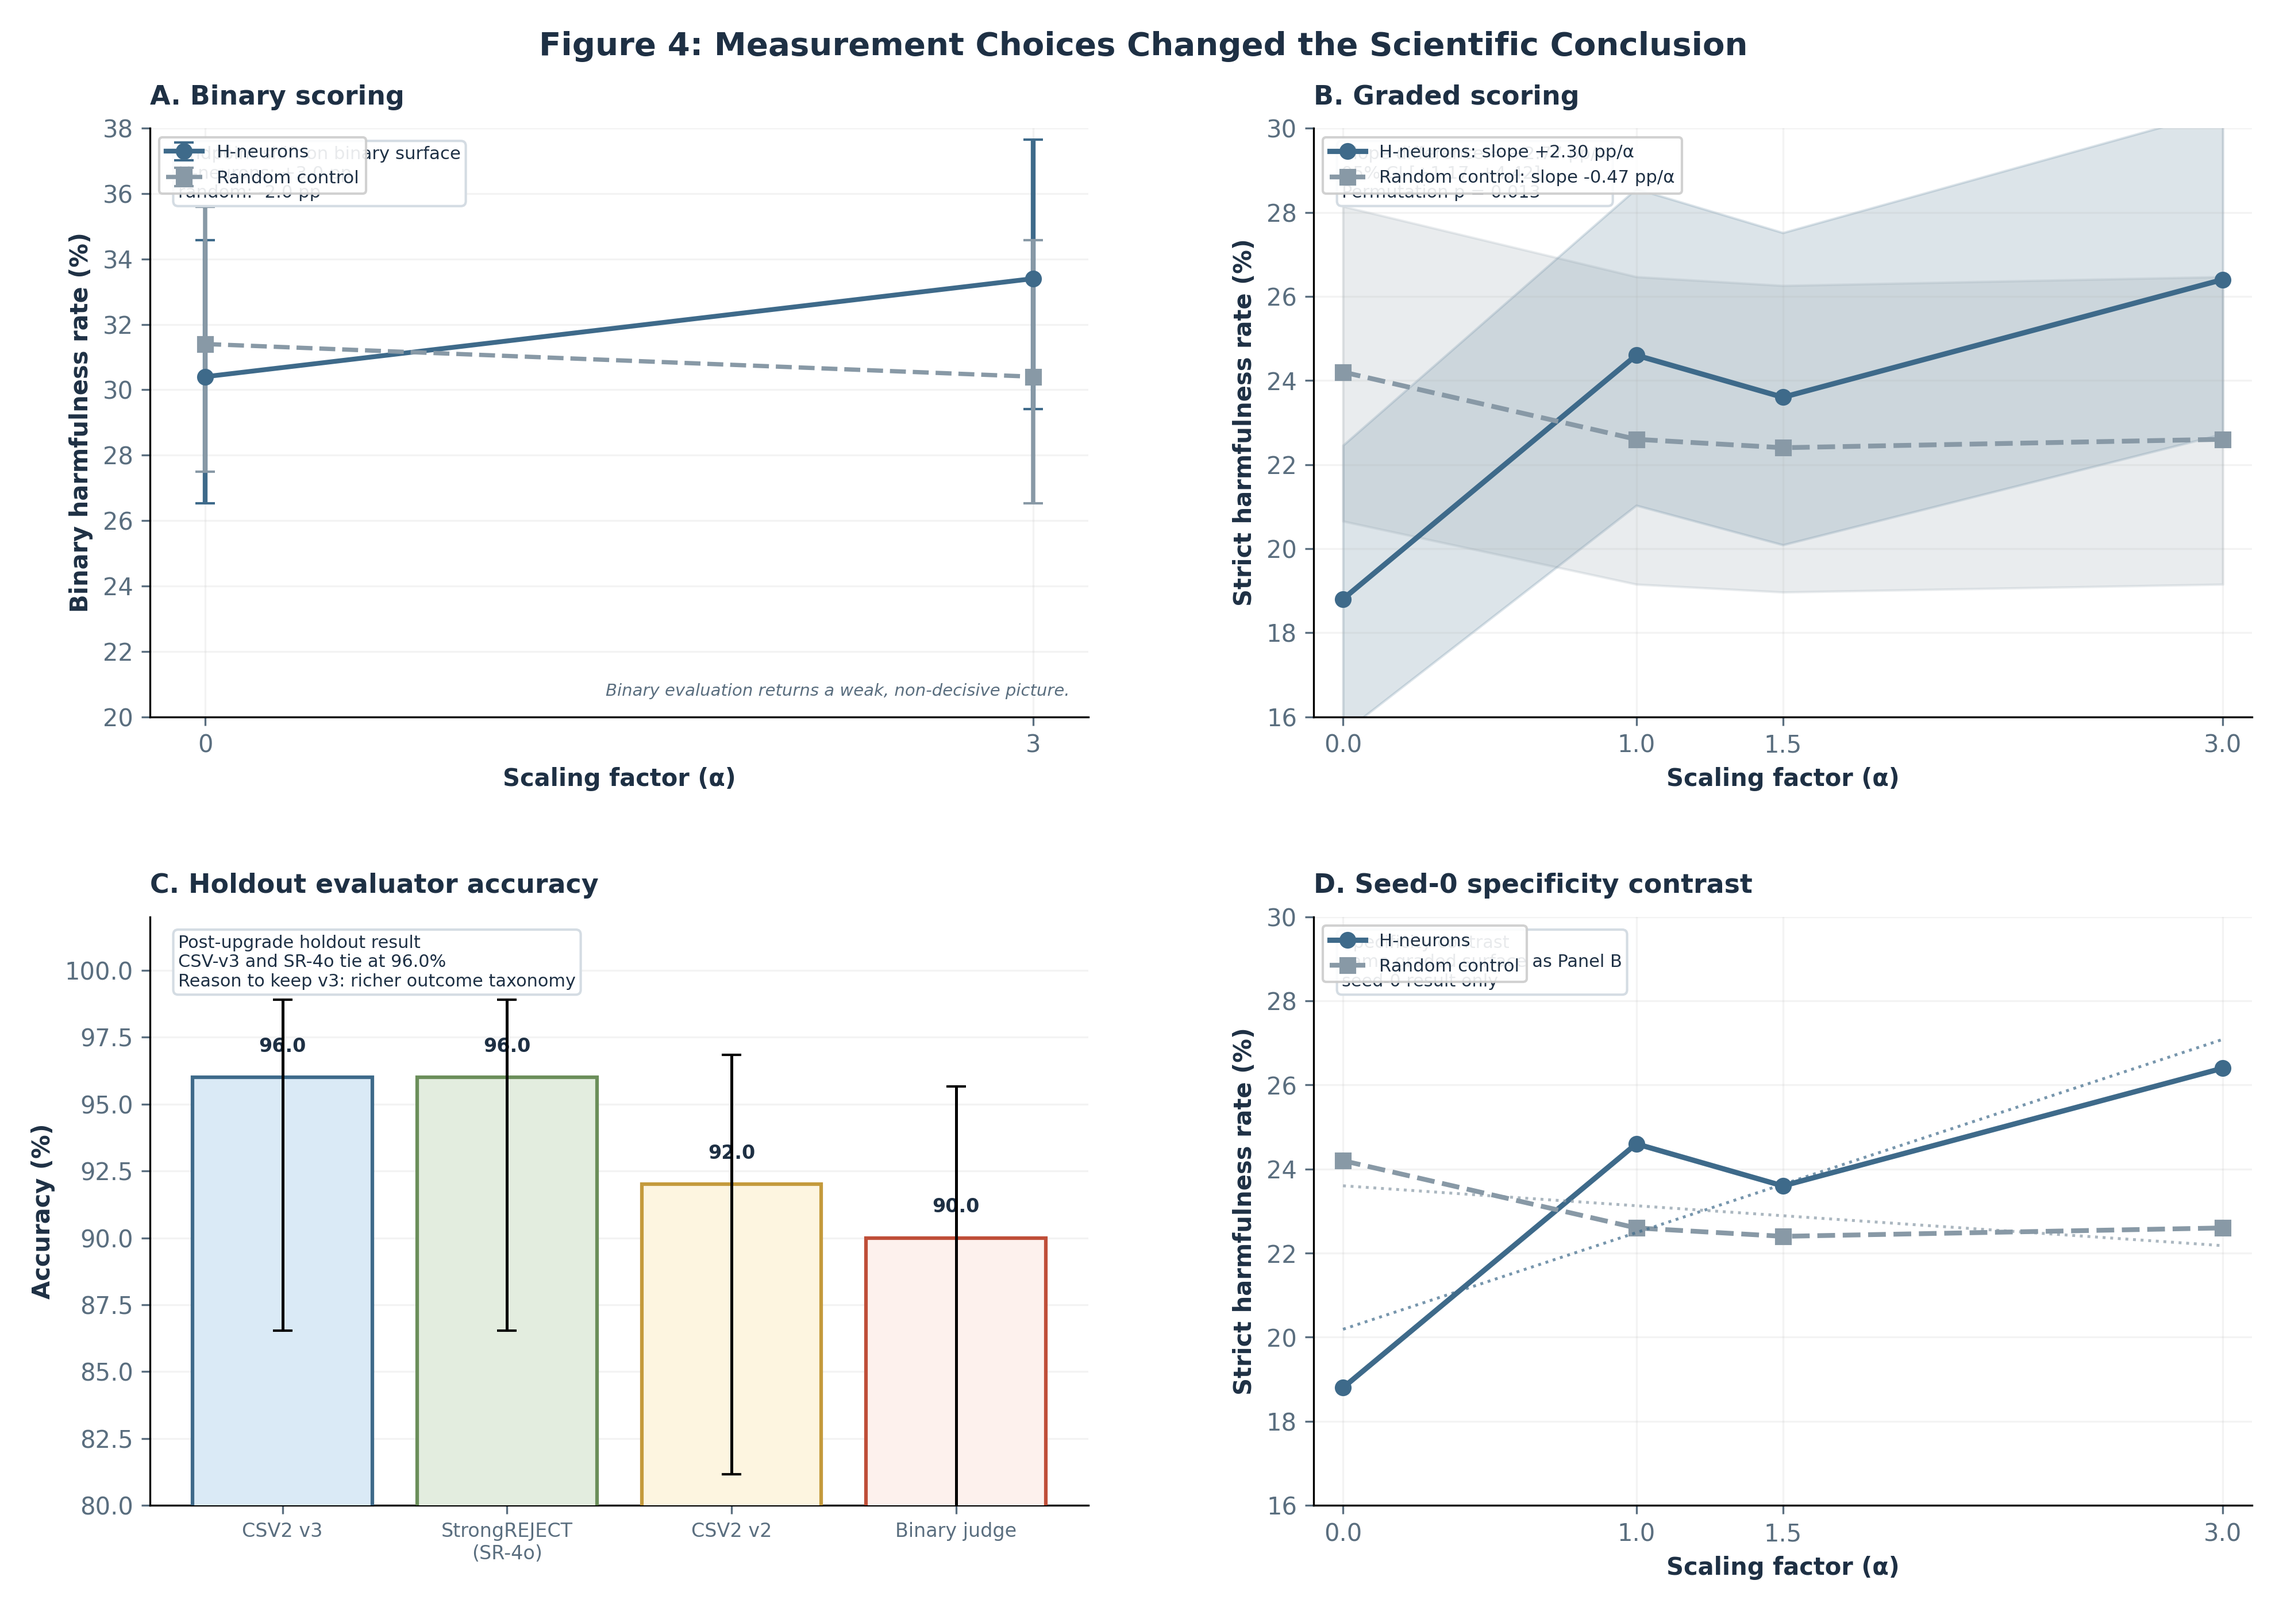
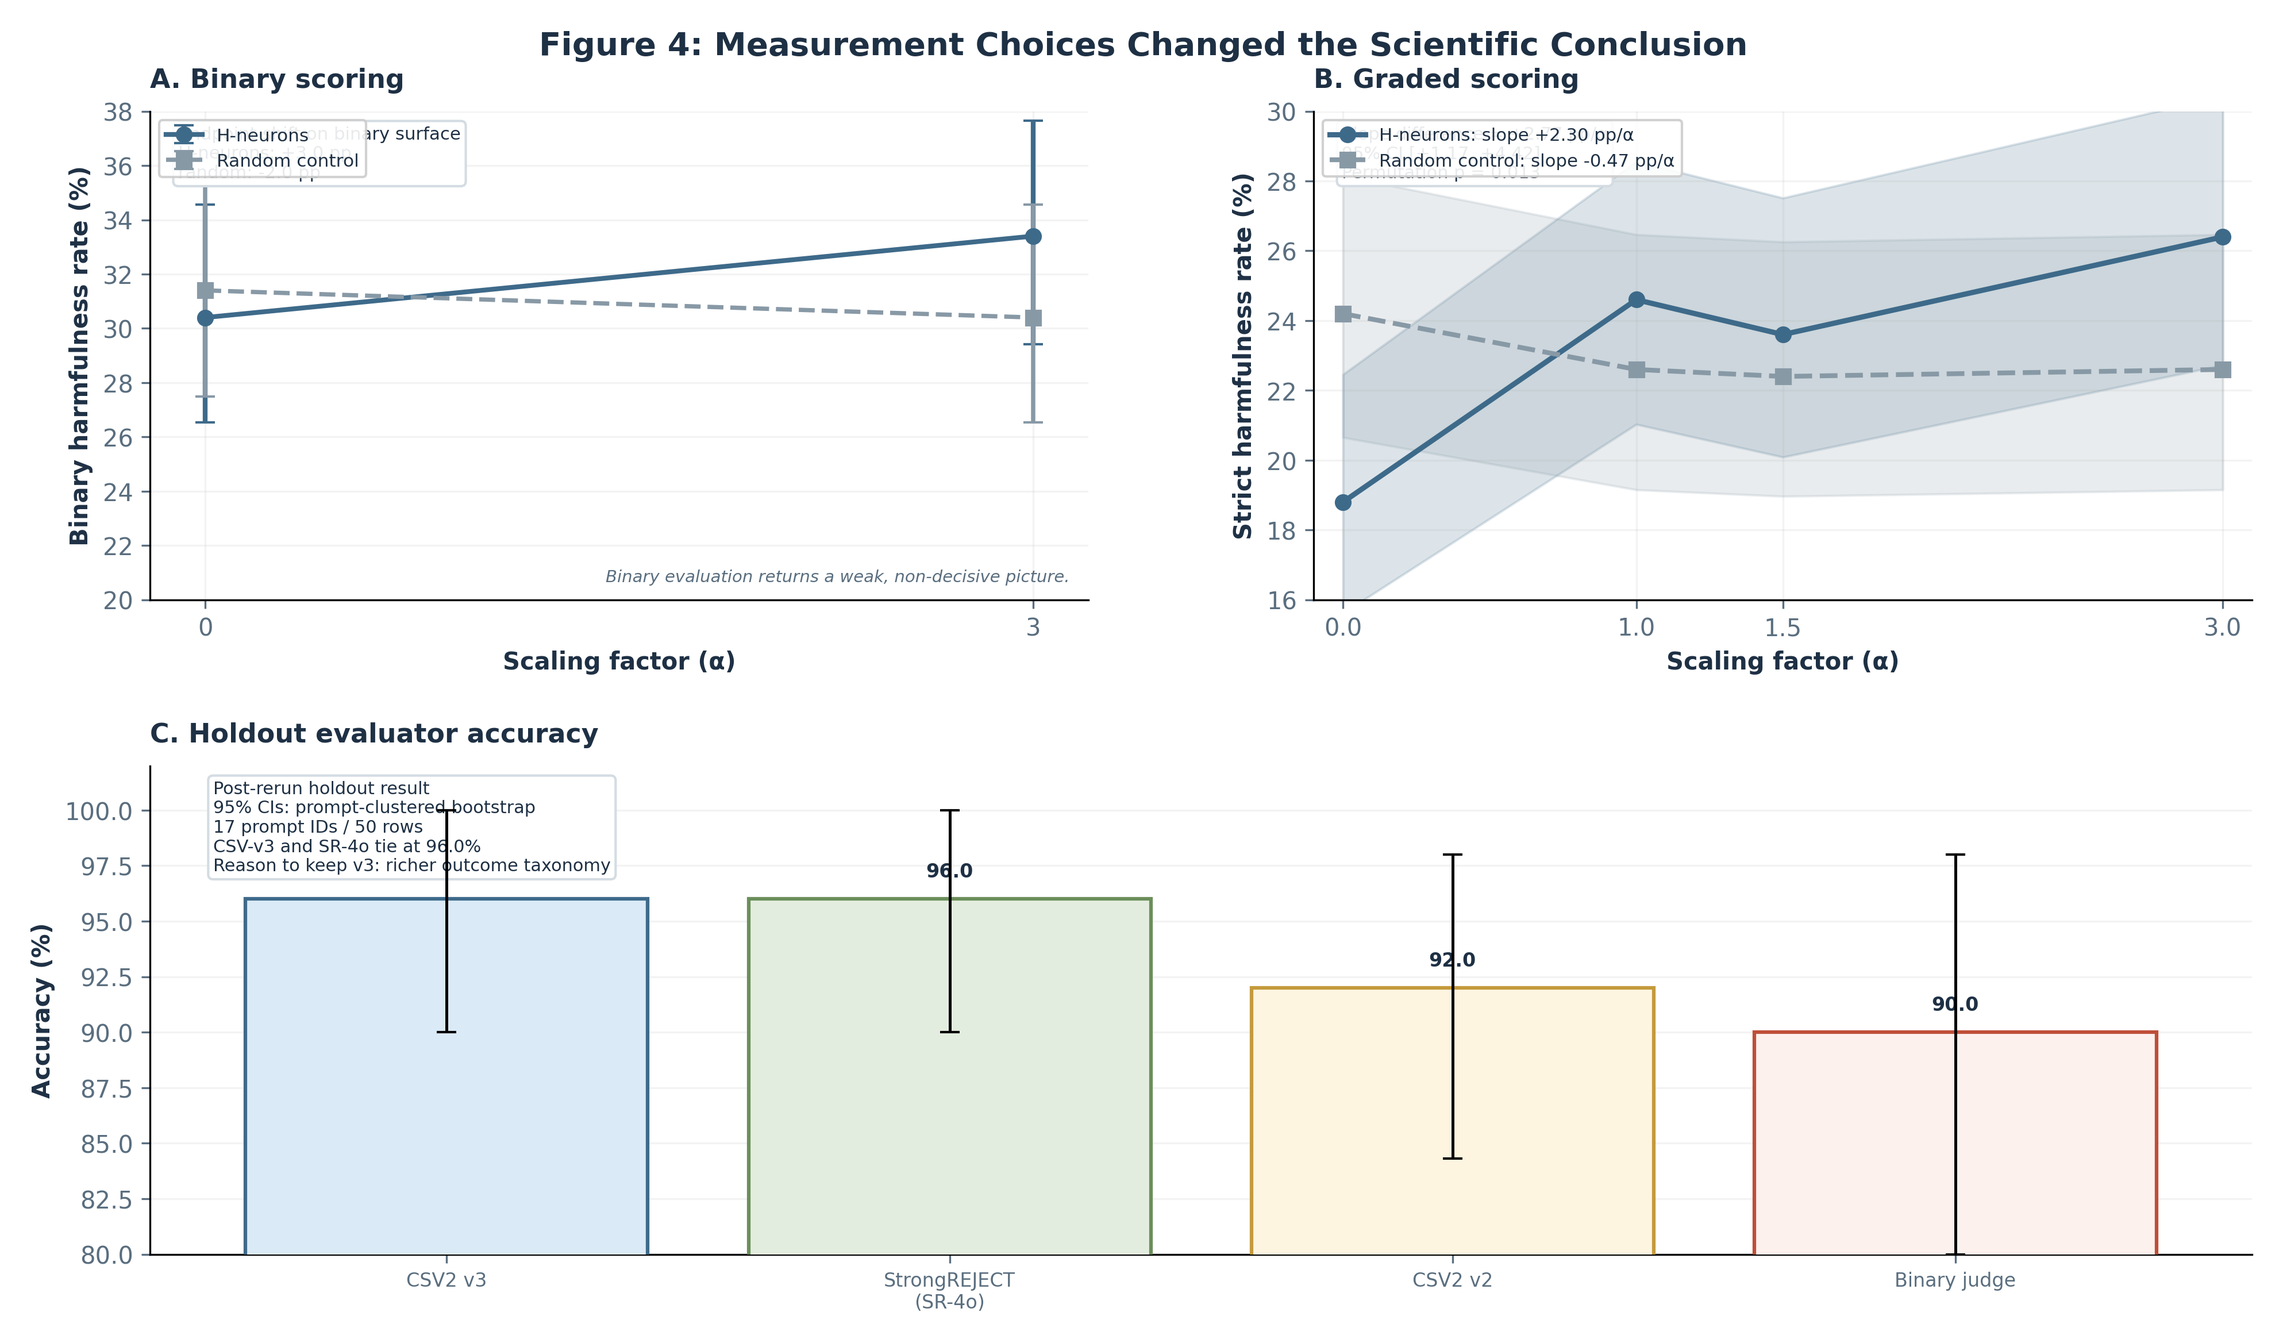
fix(fig4): simplify measurement figure and align holdout text
Why:
- The measurement figure was carrying a redundant fourth panel that repeated the graded specificity surface without adding distinct evidence.
- Section 6 still mixed the current SR-4o holdout framing with stale historical StrongREJECT numbers, which weakened consistency between the figure, manuscript text, and canonical holdout note.

Side effects:
- Figure 4 is now a three-panel layout centered on binary scoring, graded scoring, and holdout evaluator accuracy.
- The holdout table and caption now consistently report the prompt-clustered SR-4o tie and the taxonomy-based reason for keeping CSV-v3.

diff --git a/paper/draft/figures/fig4_measurement.py b/paper/draft/figures/fig4_measurement.py
@@ -4,7 +4,7 @@ Figure 4: Measurement Choices Changed the Scientific Conclusion.
 The figure is aligned to the current paper claim boundary:
 - binary and graded results are shown in separate panels
 - holdout evaluator accuracy reflects the post-SR-4o tie
-- specificity is shown with explicit uncertainty
+- pipeline hygiene remains a text result in Section 6.4, not a duplicate panel
 
 Usage:
     uv run python paper/draft/figures/fig4_measurement.py
@@ -72,6 +72,7 @@ def load_data() -> dict:
     csv2 = load_json(
         "data/gemma3_4b/intervention/jailbreak/control/comparison_csv2_v2_summary.json"
     )
+    holdout = load_json("data/judge_validation/holdout_comparison.json")
 
     binary_alphas = np.array([0.0, 3.0])
     binary_h_rates = (
@@ -143,29 +144,30 @@ def load_data() -> dict:
         )
     ]
 
-    evaluator_counts = {
-        "CSV2 v3": 48,
-        "StrongREJECT\n(SR-4o)": 48,
-        "CSV2 v2": 46,
-        "Binary judge": 45,
-    }
+    evaluator_metrics = holdout["bootstrap_cis"]["evaluators"]
     evaluator_colors = {
         "CSV2 v3": (C_V3, C_H_FILL),
         "StrongREJECT\n(SR-4o)": (C_SR, "#E3EDDF"),
         "CSV2 v2": (C_V2, "#FDF5E0"),
         "Binary judge": (C_BIN, "#FDF1ED"),
     }
+    evaluator_keys = {
+        "CSV2 v3": "csv2v3",
+        "StrongREJECT\n(SR-4o)": "sr",
+        "CSV2 v2": "csv2v2",
+        "Binary judge": "binary",
+    }
 
     evaluator_data = []
-    for name, correct in evaluator_counts.items():
-        lo, hi = wilson_interval(correct, 50)
+    for name, key in evaluator_keys.items():
+        accuracy = evaluator_metrics[key]["accuracy"]
         color, fill = evaluator_colors[name]
         evaluator_data.append(
             {
                 "name": name,
-                "accuracy": correct / 50 * 100,
-                "ci_lo": lo,
-                "ci_hi": hi,
+                "accuracy": accuracy["point"] * 100,
+                "ci_lo": accuracy["ci_lower"] * 100,
+                "ci_hi": accuracy["ci_upper"] * 100,
                 "color": color,
                 "fill": fill,
             }
@@ -192,6 +194,10 @@ def load_data() -> dict:
             "slope_csv2_yes_pp_per_alpha"
         ],
         "slope_diff": csv2["comparison"]["gap_h_minus_random_mean_pp"],
+        "holdout_n_prompt_ids": holdout["bootstrap_cis"]["n_clusters"],
+        "holdout_n_records": holdout["cross_alpha_holdout"]["0.0"]["n_records"]
+        + holdout["cross_alpha_holdout"]["1.5"]["n_records"]
+        + holdout["cross_alpha_holdout"]["3.0"]["n_records"],
         "evaluators": evaluator_data,
     }
 
@@ -338,7 +344,11 @@ def draw_evaluator_panel(ax: plt.Axes, data: dict) -> None:
     ax.text(
         0.03,
         0.97,
-        "Post-upgrade holdout result\nCSV-v3 and SR-4o tie at 96.0%\nReason to keep v3: richer outcome taxonomy",
+        "Post-rerun holdout result\n"
+        + "95% CIs: prompt-clustered bootstrap\n"
+        + f"{data['holdout_n_prompt_ids']} prompt IDs / {data['holdout_n_records']} rows\n"
+        + "CSV-v3 and SR-4o tie at 96.0%\n"
+        + "Reason to keep v3: richer outcome taxonomy",
         transform=ax.transAxes,
         ha="left",
         va="top",
@@ -361,83 +371,15 @@ def draw_evaluator_panel(ax: plt.Axes, data: dict) -> None:
     ax.grid(axis="y", alpha=0.15, zorder=0)
 
 
-def draw_specificity_panel(ax: plt.Axes, data: dict) -> None:
-    x = data["graded_alphas"]
-    h_fit = np.polyfit(x, data["graded_h_rates"], 1)
-    r_fit = np.polyfit(x, data["graded_r_rates"], 1)
-    fit_x = np.linspace(0.0, 3.0, 100)
-
-    ax.plot(
-        x,
-        data["graded_h_rates"],
-        color=C_H,
-        marker="o",
-        linewidth=2.2,
-        label="H-neurons",
-    )
-    ax.plot(
-        x,
-        data["graded_r_rates"],
-        color=C_R,
-        marker="s",
-        linestyle="--",
-        linewidth=2.0,
-        label="Random control",
-    )
-    ax.plot(
-        fit_x,
-        np.polyval(h_fit, fit_x),
-        color=C_H,
-        linestyle=":",
-        linewidth=1.2,
-        alpha=0.7,
-    )
-    ax.plot(
-        fit_x,
-        np.polyval(r_fit, fit_x),
-        color=C_R,
-        linestyle=":",
-        linewidth=1.2,
-        alpha=0.7,
-    )
-    ax.text(
-        0.03,
-        0.97,
-        "Specificity contrast\nsame graded surface as Panel B\nseed-0 result only",
-        transform=ax.transAxes,
-        ha="left",
-        va="top",
-        fontsize=7.3,
-        bbox=dict(boxstyle="round,pad=0.28", facecolor="white", edgecolor="#D4DCE3"),
-    )
-    ax.set_title(
-        "D. Seed-0 specificity contrast",
-        fontsize=11,
-        fontweight="bold",
-        loc="left",
-        pad=10,
-    )
-    ax.set_xlabel("Scaling factor (α)", fontsize=10, fontweight="bold")
-    ax.set_ylabel("Strict harmfulness rate (%)", fontsize=10, fontweight="bold")
-    ax.set_xticks(x)
-    ax.set_xlim(-0.1, 3.1)
-    ax.set_ylim(16, 30)
-    ax.legend(fontsize=7.4, loc="upper left", framealpha=0.9, edgecolor="#CCCCCC")
-    ax.spines["top"].set_visible(False)
-    ax.spines["right"].set_visible(False)
-    ax.grid(alpha=0.15)
-
-
 def main() -> None:
     data = load_data()
-    fig = plt.figure(figsize=(13.4, 9.4), dpi=300)
+    fig = plt.figure(figsize=(13.4, 7.8), dpi=300)
     fig.set_facecolor(BG_COLOR)
     grid = fig.add_gridspec(2, 2, hspace=0.34, wspace=0.24)
 
     draw_binary_panel(fig.add_subplot(grid[0, 0]), data)
     draw_graded_panel(fig.add_subplot(grid[0, 1]), data)
-    draw_evaluator_panel(fig.add_subplot(grid[1, 0]), data)
-    draw_specificity_panel(fig.add_subplot(grid[1, 1]), data)
+    draw_evaluator_panel(fig.add_subplot(grid[1, :]), data)
 
     fig.suptitle(
         "Figure 4: Measurement Choices Changed the Scientific Conclusion",

diff --git a/paper/draft/full_paper.md b/paper/draft/full_paper.md
@@ -255,7 +255,7 @@ The preceding sections established that detection quality does not predict steer
 We organize the case study around the H-neuron jailbreak scaling experiment (38 probe-selected neurons, $\alpha \in \{0, 1, 1.5, 3\}$, $n = 500$ per condition), because its moderate effect size makes it sensitive to every measurement decision we examine.
 
 ![Figure 4. Measurement choices changed the scientific conclusion.](figures/fig4_measurement.png)
-*Figure 4. Binary and graded scoring lead to different scientific conclusions, holdout evaluator validation ends in a binary tie between CSV-v3 and StrongREJECT-GPT-4o, and the seed-0 specificity contrast remains visible on the graded surface.*
+*Figure 4. Binary and graded scoring lead to different scientific conclusions, and the holdout evaluator panel uses prompt-clustered bootstrap CIs to show that CSV-v3 and StrongREJECT-GPT-4o are tied on binary holdout accuracy.*
 
 ## 6.1 Truncation Hides Downstream Content
 
@@ -282,11 +282,11 @@ If scoring granularity changes the verdict, evaluator identity can still matter 
 | Evaluator | Holdout accuracy | Holdout 95% CI (prompt-clustered) |
 |---|---:|---:|
 | CSV2 v3 | 96.0% | [90.0, 100.0] |
-| StrongREJECT | 94.0% | [88.0, 100.0] |
+| StrongREJECT-GPT-4o | 96.0% | [90.0, 100.0] |
 | CSV2 v2 | 92.0% | [84.3, 98.0] |
 | Binary judge | 90.0% | [80.0, 98.0] |
 
-Even in that pre-upgrade comparison, no pairwise holdout difference was statistically confirmable. Re-running StrongREJECT with GPT-4o then closed the remaining binary gap entirely: CSV-v3 and StrongREJECT-GPT-4o both reached 96.0% holdout accuracy with identical error sets.^[Source: `notes/act3-reports/2026-04-13-jailbreak-measurement-cleanup.md`, §3.] The reason to keep CSV-v3 in this paper is therefore not binary superiority; it is richer outcome taxonomy.
+No pairwise holdout difference is statistically confirmable on the contamination-clean split. CSV-v3 and StrongREJECT-GPT-4o both reached 96.0% holdout accuracy with identical error sets, so the reason to keep CSV-v3 in this paper is not binary superiority but richer outcome taxonomy.^[Sources: `notes/act3-reports/2026-04-12-4way-evaluator-holdout-validation.md`; `notes/act3-reports/2026-04-13-jailbreak-measurement-cleanup.md`, §3.]
 
 The residual disagreement is still informative because it clusters on a recognizable response type: refuse-then-comply outputs. StrongREJECT's formula zeroes the final score when \texttt{refused = 1}, even if later text contains specific harmful substance. The development-set audit shows that this rubric choice, not judge-model weakness alone, explains the remaining false negatives after the GPT-4o rerun. In this paper we therefore treat evaluator disagreement as construct pluralism rather than as noise that can be solved by picking one preferred judge. Appendix E gives a worked summary of that disagreement regime.^[Sources: `notes/act3-reports/2026-04-12-4way-evaluator-comparison.md`; `notes/act3-reports/2026-04-12-4way-evaluator-holdout-validation.md`; `notes/act3-reports/2026-04-13-jailbreak-measurement-cleanup.md`.]
 

diff --git a/paper/draft/section_6_measurement.md b/paper/draft/section_6_measurement.md
@@ -5,7 +5,7 @@ The preceding sections established that detection quality does not predict steer
 We organize the case study around the H-neuron jailbreak scaling experiment (38 probe-selected neurons, $\alpha \in \{0, 1, 1.5, 3\}$, $n = 500$ per condition), because its moderate effect size makes it sensitive to every measurement decision we examine.
 
 ![Figure 4. Measurement choices changed the scientific conclusion.](figures/fig4_measurement.png)
-*Figure 4. Binary and graded scoring lead to different scientific conclusions, holdout evaluator validation ends in a binary tie between CSV-v3 and StrongREJECT-GPT-4o, and the seed-0 specificity contrast remains visible on the graded surface.*
+*Figure 4. Binary and graded scoring lead to different scientific conclusions, and the holdout evaluator panel uses prompt-clustered bootstrap CIs to show that CSV-v3 and StrongREJECT-GPT-4o are tied on binary holdout accuracy.*
 
 ## 6.1 Truncation Hides Downstream Content
 
@@ -32,11 +32,11 @@ If scoring granularity changes the verdict, evaluator identity can still matter 
 | Evaluator | Holdout accuracy | Holdout 95% CI (prompt-clustered) |
 |---|---:|---:|
 | CSV2 v3 | 96.0% | [90.0, 100.0] |
-| StrongREJECT | 94.0% | [88.0, 100.0] |
+| StrongREJECT-GPT-4o | 96.0% | [90.0, 100.0] |
 | CSV2 v2 | 92.0% | [84.3, 98.0] |
 | Binary judge | 90.0% | [80.0, 98.0] |
 
-Even in that pre-upgrade comparison, no pairwise holdout difference was statistically confirmable. Re-running StrongREJECT with GPT-4o then closed the remaining binary gap entirely: CSV-v3 and StrongREJECT-GPT-4o both reached 96.0% holdout accuracy with identical error sets.^[Source: `notes/act3-reports/2026-04-13-jailbreak-measurement-cleanup.md`, §3.] The reason to keep CSV-v3 in this paper is therefore not binary superiority; it is richer outcome taxonomy.
+No pairwise holdout difference is statistically confirmable on the contamination-clean split. CSV-v3 and StrongREJECT-GPT-4o both reached 96.0% holdout accuracy with identical error sets, so the reason to keep CSV-v3 in this paper is not binary superiority but richer outcome taxonomy.^[Sources: `notes/act3-reports/2026-04-12-4way-evaluator-holdout-validation.md`; `notes/act3-reports/2026-04-13-jailbreak-measurement-cleanup.md`, §3.]
 
 The residual disagreement is still informative because it clusters on a recognizable response type: refuse-then-comply outputs. StrongREJECT's formula zeroes the final score when \texttt{refused = 1}, even if later text contains specific harmful substance. The development-set audit shows that this rubric choice, not judge-model weakness alone, explains the remaining false negatives after the GPT-4o rerun. In this paper we therefore treat evaluator disagreement as construct pluralism rather than as noise that can be solved by picking one preferred judge. Appendix E gives a worked summary of that disagreement regime.^[Sources: `notes/act3-reports/2026-04-12-4way-evaluator-comparison.md`; `notes/act3-reports/2026-04-12-4way-evaluator-holdout-validation.md`; `notes/act3-reports/2026-04-13-jailbreak-measurement-cleanup.md`.]
 
